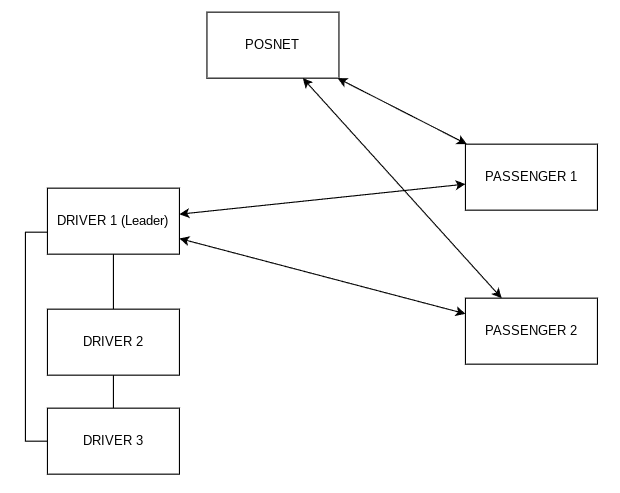
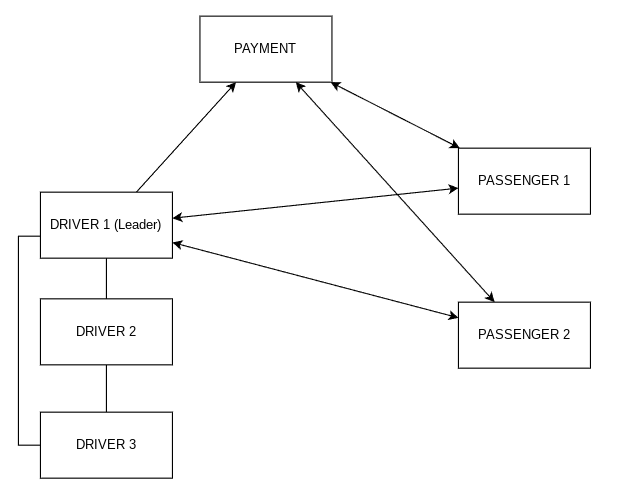
feat: update readme

diff --git a/README.md b/README.md
@@ -10,7 +10,7 @@
 
 ## Aplicaciones
 
-El sistema se compone de tres tipos de aplicaciones, Passengers los cuales solicitan viajes, Drivers los cuales aceptan y concretan esos viajes y Posnet el cual controla el pago del viaje.
+El sistema se compone de tres tipos de aplicaciones, Passengers los cuales solicitan viajes, Drivers los cuales aceptan y concretan esos viajes y Payment el cual controla el pago del viaje.
 
 ![arquitectura](assets/arq_actores.png)
 
@@ -18,7 +18,7 @@ Como podemos ver en este diagrama, el pedido de los viajes lo recibe el driver 1
 
 Los passenger por lo tanto, envian viajes al Driver lider esperando un mensaje confirmando un viaje, y su finalizacion o en caso contrario, un mensaje de error
 
-El PosNet se conectara con cada Passenger esperando autorizacion de pago por parte del mismo y cobrando la cantidad indicada luego de finalizar el viaje.
+El Payment se conectara con cada Passenger esperando autorizacion de pago por parte del mismo y con cada Driver esperando confirmacion de llegada a destino cobrando asi, la cantidad indicada luego de finalizar el viaje.
 
 ### Driver
 
@@ -26,11 +26,11 @@ El PosNet se conectara con cada Passenger esperando autorizacion de pago por par
 
 Dentro del proceso Driver encontramos los actores:
 
--   HandleDriveDriver: Se responsabiliza en concretar la logica del viaje
+-   HandleTrip: Se responsabiliza en concretar la logica del viaje
 
--   CentralDriver: Se responsabiliza en orquestar los mensajes recibidos de los diversos actores con los cuales se comunica a estos mismos actores
+-   CentralDriver: Se responsabiliza en orquestar los mensajes recibidos de los diversos actores con los cuales se comunica a estos mismos actores y de asignar el conductor al pasajero. En caso de que sea necesario se encargara de seleccionar un nuevo lider.
 
--   DriverToDriverConnection: Se responsabiliza de las comunicaciones mediante sockets con los demas Drivers, hay una instancia de este actor por cada Driver que exista
+-   DriverToDriverConnection: Se responsabiliza de las comunicaciones mediante sockets con los demas Drivers, hay una instancia de este actor por cada Driver que exista.
 
 -   DriverToPassengerConnection: Se responsabiliza de las comunicaciones mediante sockets con el Passenger actual
 
@@ -44,16 +44,22 @@ Dentro del proceso Passenger encontramos los actores:
 
 -   PassengerToDriverConnection: Le envia un mensaje al Driver lider comunicando los datos del viaje que el Passenger quiere iniciar
 
--   HandleDriverResponse: Se encarga de contemplar la respuesta recibida por parte del Driver
+-   HandleDriverResponse: Se encarga de contemplar la respuesta recibida por parte del Driver. En caso de error, ya sea que no se tomo el viaje o que ocurrio algun otro tipo de error, no se comunicara la intencion de cobro al PassengerToPaymentConnection.
 
--   PassengerToPosnetConnection: Le envia un mensaje al Posnet comunicando que el viaje finalizo con exito
+-   PassengerToPaymentConnection: Le envia un mensaje al Payment comunicando que el passenger esta en condiciones de pagar
 
-### PosNet
+### Payment
 
-![posnet](assets/ei_posnet.png)
+![payment](assets/ei_payment.png)
 
-Dentro del proceso Posnet encontramos los actores:
+Dentro del proceso Payment encontramos los actores:
 
--   PosnetToPassengerConnection: Se comunica con el Passenger mediante sockets TCP
+-   PaymentToPassengerConnection: Se comunica con el Passenger mediante sockets TCP
 
--   HandlePayment: Maneja los mensajes recibidos por parte del Passenger, ya sea autorizar un pago o cobrar el monto despues de terminar el viaje.
+-   PaymentToDriverConnection: Se comunica con el Driver mediante sockets TCP
+
+-   HandlePayment: Maneja los mensajes recibidos, ya sea autorizar un pago o cobrar el monto despues de terminar el viaje.
+
+## Como se selecciona un Driver
+
+El lider al recibir un nuevo viaje, enviara a cada Driver (incluido el mismo) la ubicacion actual del pasajero que solicito el servicio, y estos responderan en caso de poder / querer tomar el viaje con su distancia hacia el pasajero, en caso contrario, responderan **-1** por defecto siendo este valor un indicativo de que no tomaran este viaje. Luego, con todas las distancias recolectadas, se elegira al conductor con la menor distancia valida para que tome el viaje.
